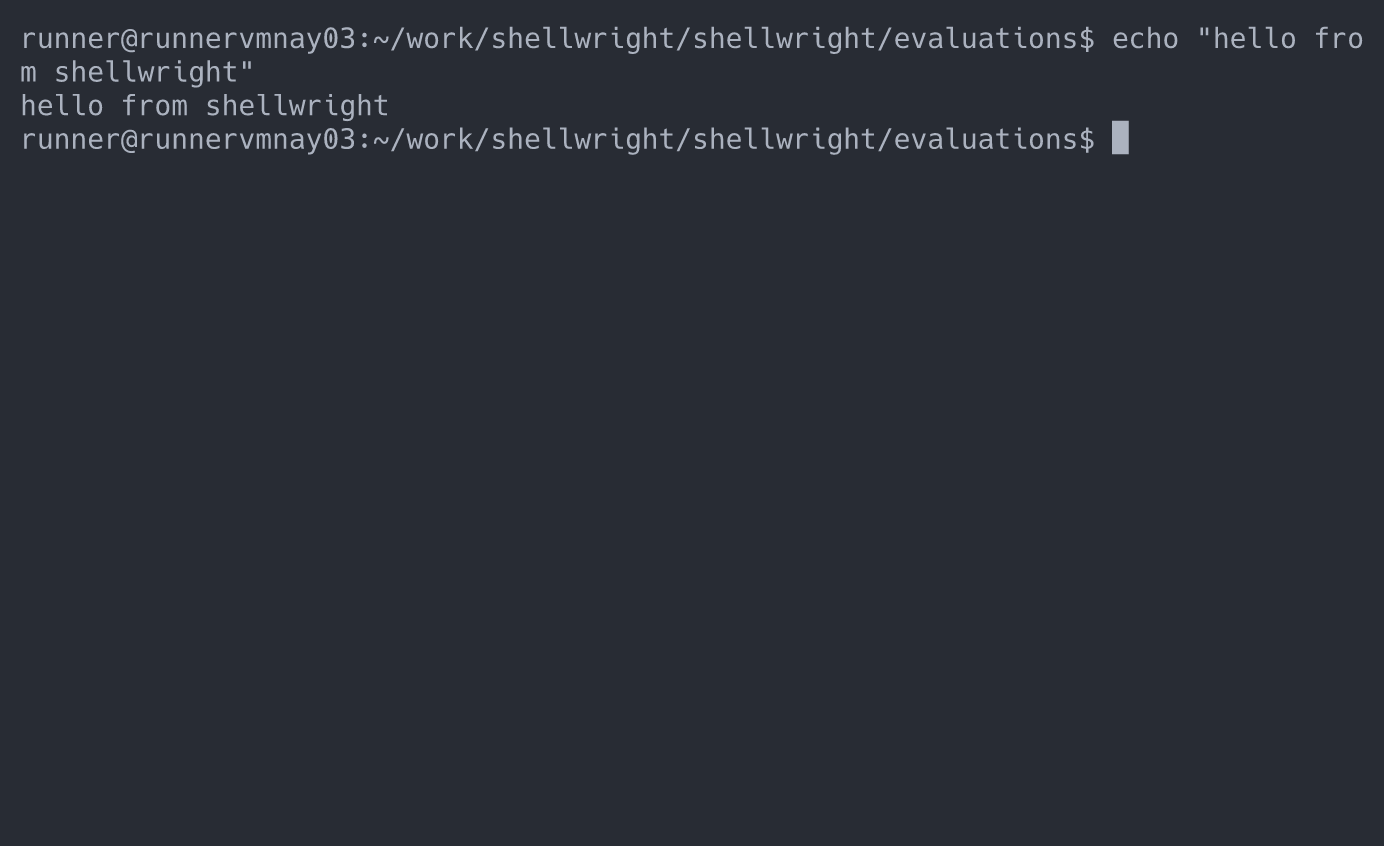
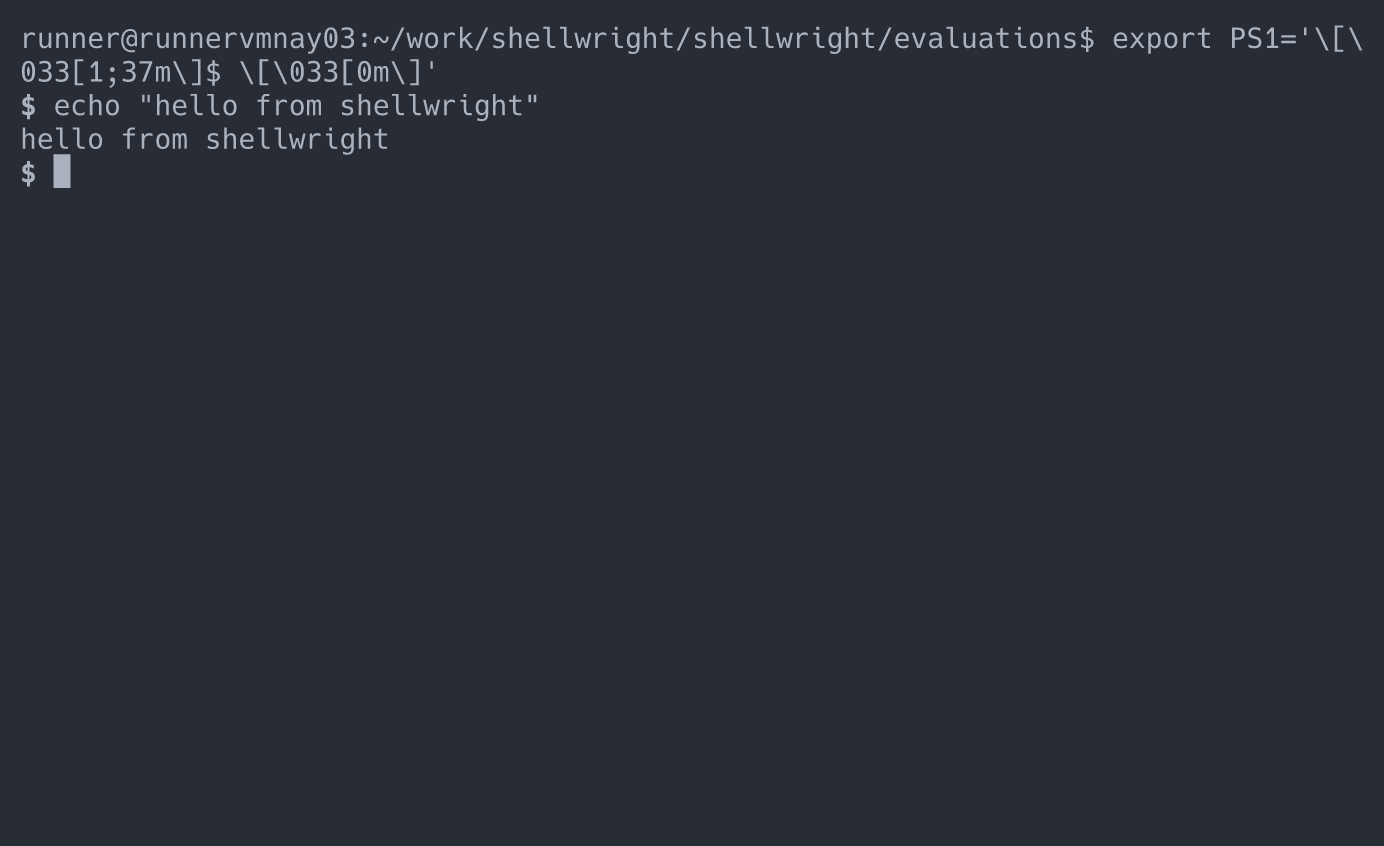
Deploy preview for PR 64 🛫

Changed region(s): [[0.0, 0.0615, 0.8389, 0.2151], [0.8078, 0.0307, 0.9942, 0.0615]]

diff --git a/pr-preview/pr-64/index.html b/pr-preview/pr-64/index.html
@@ -53,7 +53,7 @@
             <img src="https://raw.githubusercontent.com/dwmkerr/shellwright/feat/optional-borders/evaluations/scenarios/claude-code-basics/baseline-cicd-recording.gif" alt="baseline-cicd">
         </td>
         <td class="preview">
-          <div class="size">659.6KB</div>
+          <div class="size">659.5KB</div>
             <img src="./claude-code-basics/recording.gif" alt="recorded">
         </td>
       </tr>
@@ -85,7 +85,7 @@
             <span class="missing">No baseline</span>
         </td>
         <td class="preview">
-          <div class="size">51.6KB</div>
+          <div class="size">48.7KB</div>
             <img src="./screenshot-border/screenshot-bordered.png" alt="recorded">
         </td>
       </tr>
@@ -100,24 +100,24 @@
             <span class="missing">No baseline</span>
         </td>
         <td class="preview">
-          <div class="size">39.6KB</div>
+          <div class="size">36.8KB</div>
             <img src="./screenshot-border/screenshot.png" alt="recorded">
         </td>
       </tr>
       <tr>
         <td class="scenario" rowspan="1"><strong>vim-session</strong></td>
-        <td class="artifact">recording.gif.gif</td>
+        <td class="artifact">recording.gif</td>
         <td class="preview">
-          <div class="size">Missing</div>
-            <span class="missing">No baseline</span>
+          <div class="size">3303.1KB</div>
+            <img src="https://raw.githubusercontent.com/dwmkerr/shellwright/feat/optional-borders/evaluations/scenarios/vim-session/baseline-local-recording.gif" alt="baseline-local">
         </td>
         <td class="preview">
-          <div class="size">Missing</div>
-            <span class="missing">No baseline</span>
+          <div class="size">210.8KB</div>
+            <img src="https://raw.githubusercontent.com/dwmkerr/shellwright/feat/optional-borders/evaluations/scenarios/vim-session/baseline-cicd-recording.gif" alt="baseline-cicd">
         </td>
         <td class="preview">
-          <div class="size">195.8KB</div>
-            <img src="./vim-session/recording.gif.gif" alt="recorded">
+          <div class="size">177.7KB</div>
+            <img src="./vim-session/recording.gif" alt="recorded">
         </td>
       </tr>
     </tbody>

diff --git a/pr-preview/pr-64/screenshot-border/prompt.md b/pr-preview/pr-64/screenshot-border/prompt.md
@@ -5,11 +5,12 @@ Take screenshots with and without a macOS-style window border.
 ## Instructions
 
 1. Start a shell session using `bash` with args `["--login", "-i"]` (80x24, one-dark theme)
-2. Type `echo "hello from shellwright"` and press Enter
-3. Wait briefly for the command to complete
-4. Take a screenshot named `screenshot` (no border)
-5. Take a screenshot named `screenshot-bordered` with `border: { style: "macos", title: "Terminal" }`
-6. Stop the session
+2. Set a clean prompt: type `export PS1='\[\033[1;37m\]$ \[\033[0m\]'` and press Enter
+3. Type `echo "hello from shellwright"` and press Enter
+4. Wait briefly for the command to complete
+5. Take a screenshot named `screenshot` (no border)
+6. Take a screenshot named `screenshot-bordered` with `border: { style: "macos", title: "Terminal" }`
+7. Stop the session
 
 ## Expected Result
 

diff --git a/pr-preview/pr-64/claude-code-basics/prompt.md b/pr-preview/pr-64/claude-code-basics/prompt.md
@@ -17,7 +17,7 @@ Create a recording demonstrating Claude Code opening and responding to a greetin
 6. Wait for Claude to respond (may take 10-20 seconds)
 7. Once Claude responds, type `/exit` and press Enter to quit
 8. Wait 1 second for clean exit
-9. Stop recording and save as `recording.gif`
+9. Stop recording and save as `recording`
 
 ## Expected Result
 

diff --git a/pr-preview/pr-64/cursor-visibility/prompt.md b/pr-preview/pr-64/cursor-visibility/prompt.md
@@ -10,7 +10,7 @@ Verify that the terminal cursor renders correctly in recordings.
 4. Wait 500ms
 5. Press Ctrl+A to move cursor to the beginning of the line
 6. Wait 1 second so the cursor position is clearly visible
-7. Stop recording and save as `recording.gif`
+7. Stop recording and save as `recording`
 8. Stop the session
 
 ## Expected Result

diff --git a/pr-preview/pr-64/vim-session/prompt.md b/pr-preview/pr-64/vim-session/prompt.md
@@ -24,7 +24,7 @@ Create a recording demonstrating how to close vim.
 9. Press Enter to quit
 10. Type `echo "This shell session was recorded by Shellwright!"` and press Enter
 11. Wait 1 second
-12. Stop recording and save as `recording.gif`
+12. Stop recording and save as `recording`
 
 ## Expected Result
 
